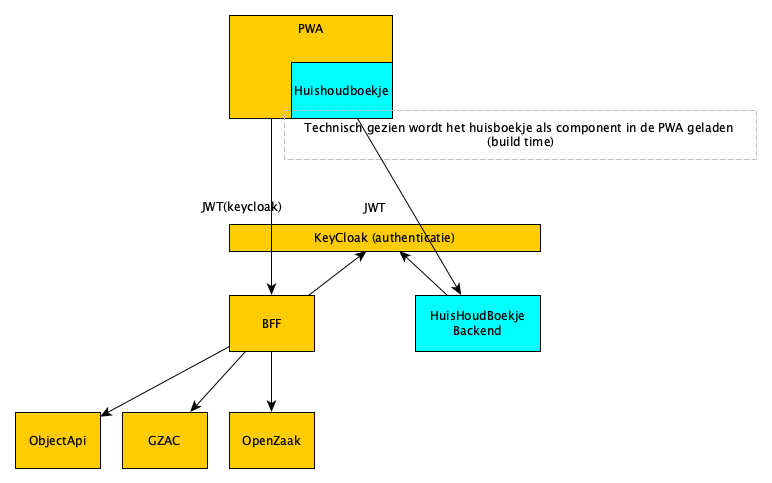
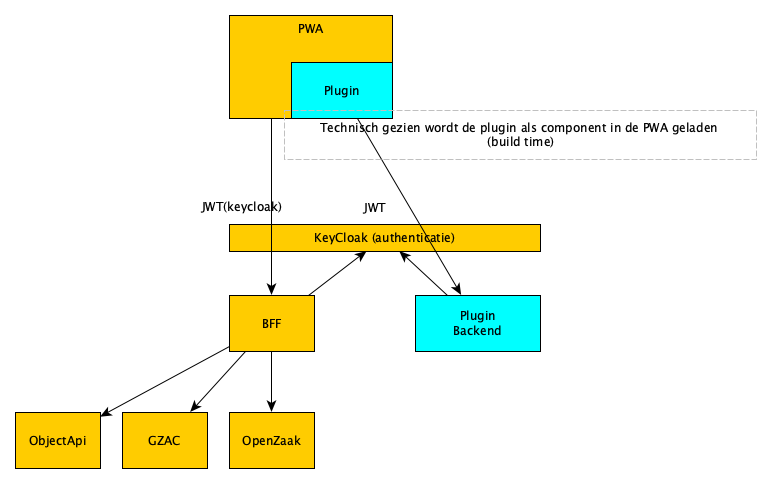
no message

Changed region(s): [[0.4041, 0.2484, 0.9637, 0.2795], [0.5596, 0.6211, 0.6839, 0.6832], [0.3731, 0.1553, 0.4974, 0.2174]]

diff --git a/architectuur/plugins.rst b/architectuur/plugins.rst
@@ -1,13 +1,17 @@
-.. _plugin:
+.. _plugins:
 
-Plugin
+Plugins in de portal
 ==========================================================================
 
 .. toctree::
    :maxdepth: 2
 
-asdfasdfasdf
+De :ref:`portal` bevat standaard functionaliteiten met betrekking tot zaken, producten en andere zgw standaarden. Natuurlijk is het mogelijk dat er andere functionaliteiten in de portal verwerkt moeten worden.
+
+Dit kan door in de react app aparte componenten mee te bouwen in de frontend code. Het backend component van de plugin moet als aparte container deployed worden.
 
 .. image:: /images/yed/plugin.png
-   :alt: Schematisch overzicht RBAC
+   :alt: Visuele weergave componenten
+
+Deze componenten kunnen dan meeliften op de authenticatie van keycloak. 
 

diff --git a/componenten/portal.rst b/componenten/portal.rst
@@ -1,6 +1,11 @@
 .. _portal:
+
+
+==========================================================================
 Portal (PWA)
 ==========================================================================
+
+
 .. toctree::
    :maxdepth: 3
 
@@ -32,3 +37,4 @@ De portal is op dit moment in volle ontwikkeling, in de komende tijd gaan we de 
 * Betaalflows
 * Rijkere content zoals bijvoorbeeld wijkberichten
 
+Met :ref:`plugins` is het mogelijk om de functionaliteit van de portal zelf uit te breiden.
